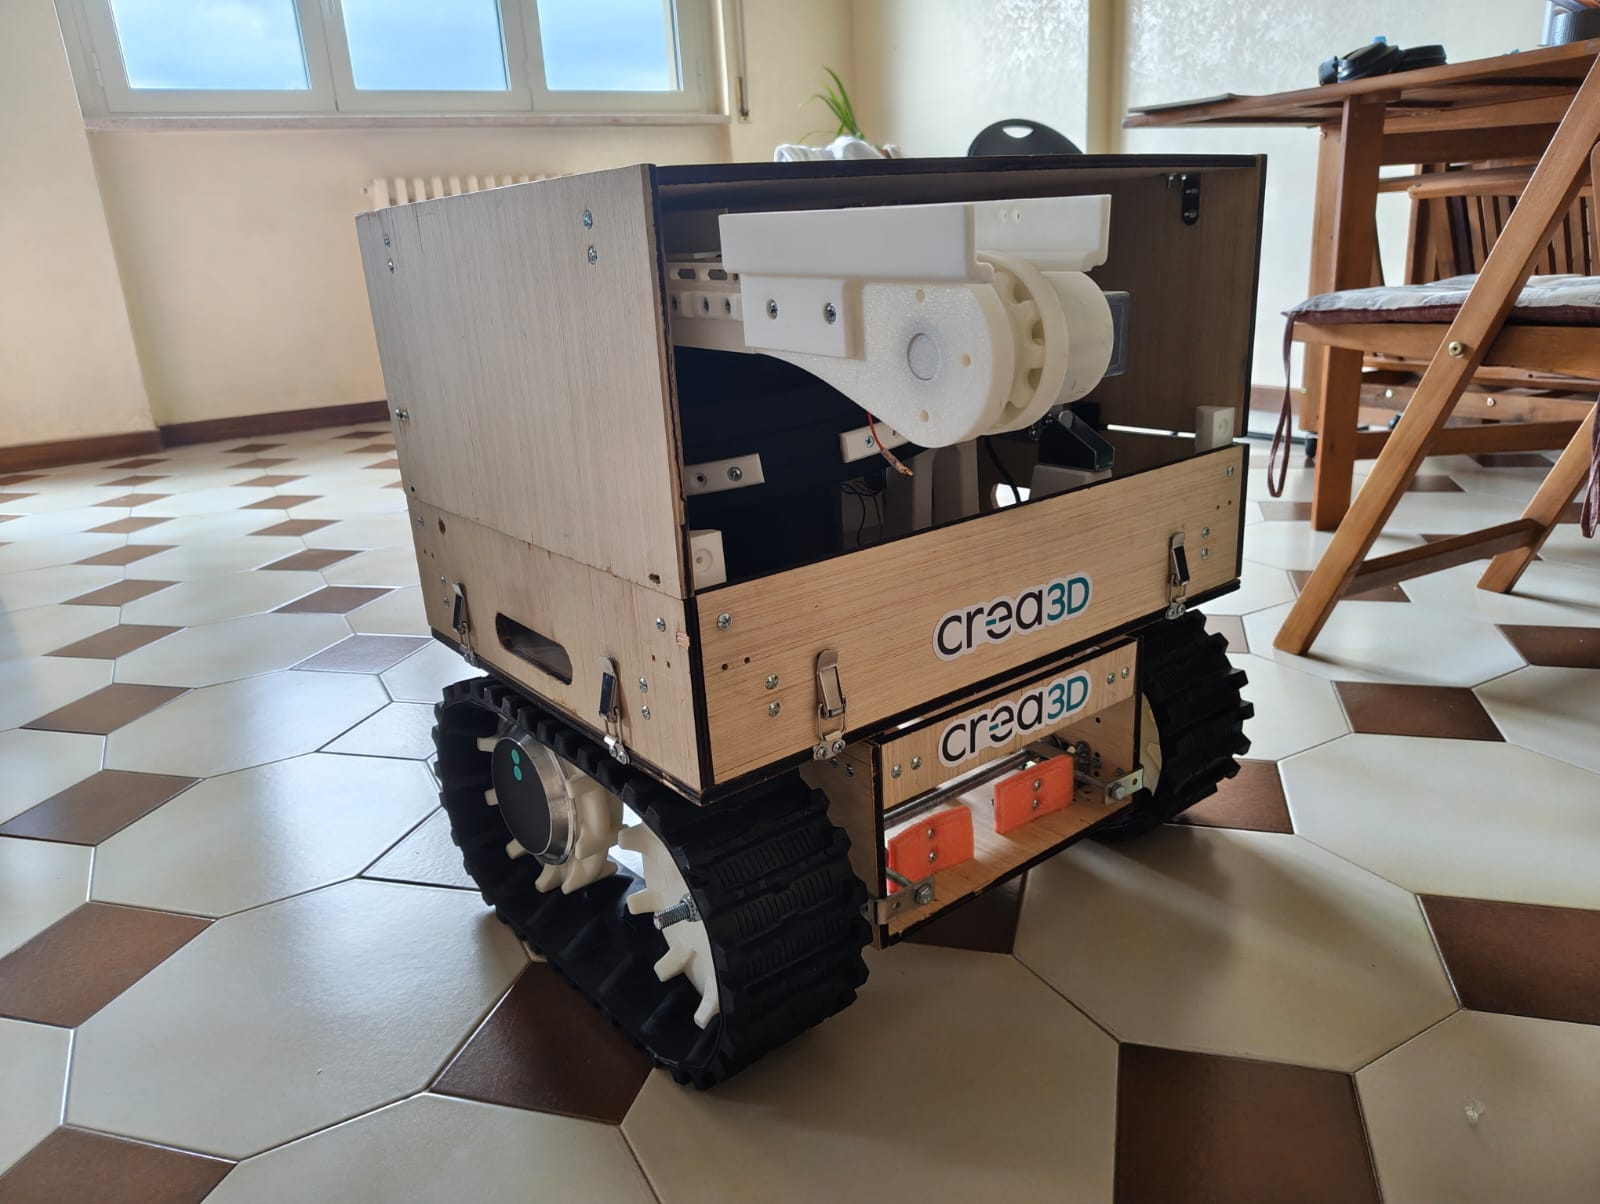
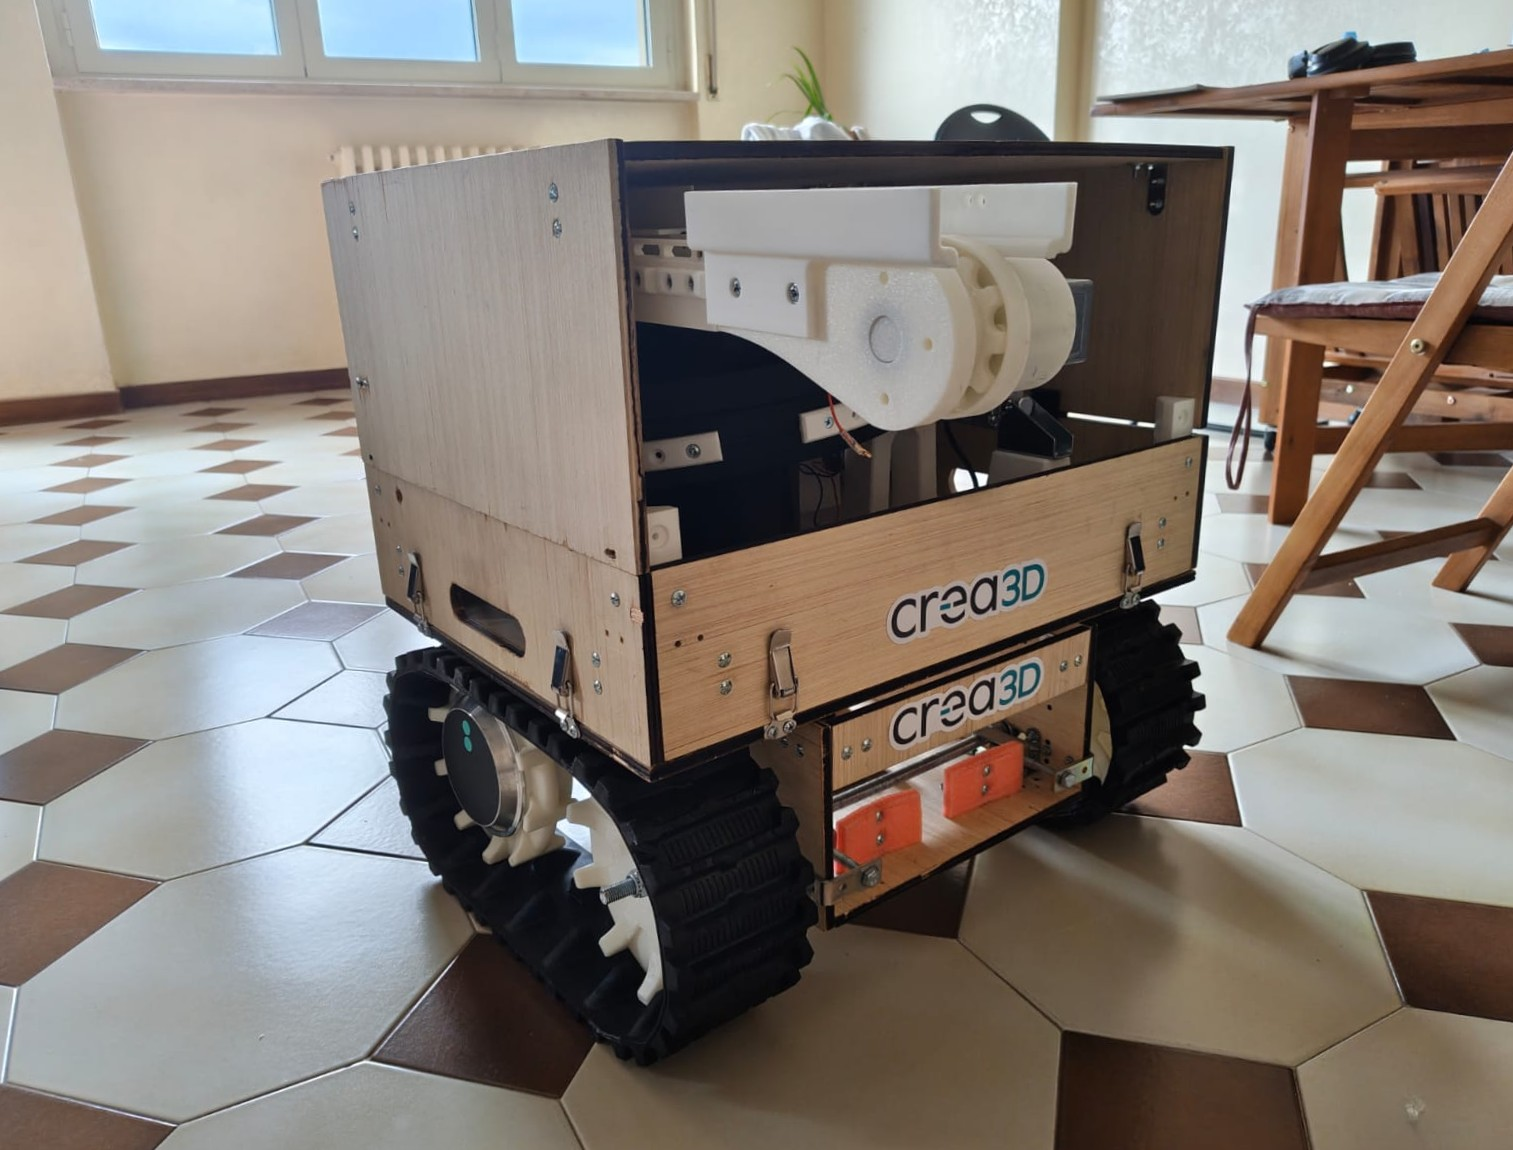
ReadME

diff --git a/Production/README.md b/Production/README.md
@@ -1,1 +1,26 @@
-Sadsasdasd
+# ARGO - Assembly guide for version 2.0
+
+## What's new
+In the second version, a great many new features have been added, and it has been given a more professional look compared to the first prototype.In the second version, all the individual modules have been made independent and more space-efficient. Thus, unlike the first version, we have:
+
+- **A rover module** powered by two motors salvaged from a hoverboard;
+- **A buffer module** inspired by a conveyor system but completely redesigned to meet space constraints;
+- **A scanner module** which has remained conceptually unchanged;
+- **A remote unit** an addition, along with the rover module, not present in the first version, which transmits UWB signals to the rover, enabling the robot to autonomously follow the archaeologist. It also features a screen and buttons to provide useful information to the operator.
+
+---
+
+## Rover Module
+
+
+---
+
+## Buffer Module
+
+---
+
+## Scanner Module
+
+---
+
+## Remote

diff --git a/README.md b/README.md
@@ -5,10 +5,12 @@
 ---
 
 ## Renders
+![ARGO](/Assets/Foto/Assembly/Argo_2.jpeg)
+
 ---
 
 ## BOM
-All the bits and pieces needed can be found **[here](Production/BOM.md)**.
+All the bits and pieces needed can be found **[here](Production/BOM.csv)**. And all the assembly steps are **[here](Production/README.md)**
 
 ---
 
